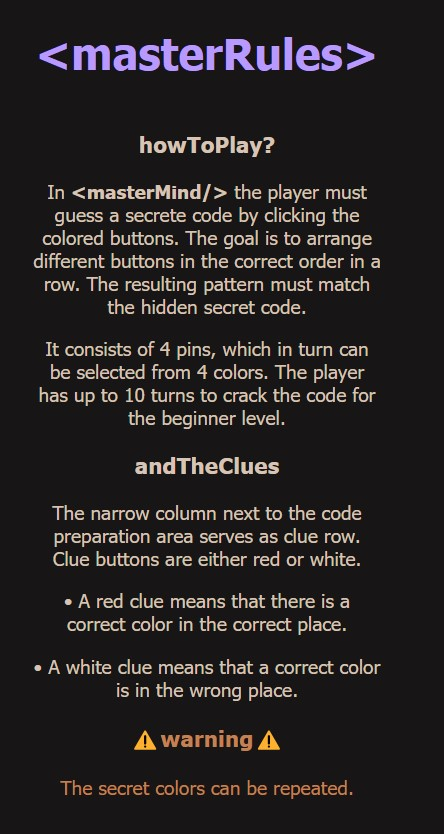
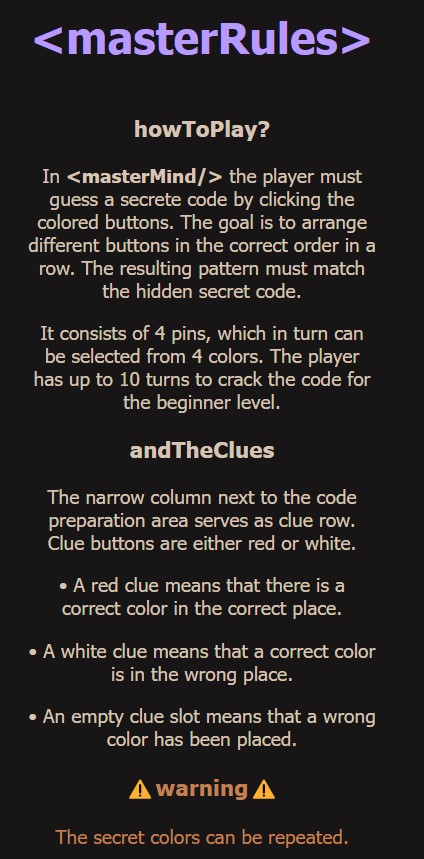
añado la opción pista vacia en la comparación, igualmente la añado en instrucciones

Changed region(s): [[0.0613, 0.1247, 0.8892, 0.9976], [0.0613, 0.0, 0.8892, 0.0935]]

diff --git a/js/game.js b/js/game.js
@@ -135,23 +135,32 @@ console.log('this is the secret code ', secretCode);
 // COMPARING ADDED COLORS WITH THE SECRET CODE AND CHECKING RED AND WHITE CLUES
 if (col1ToHex === secretCode[0]) {
   dot1.style.backgroundColor = "red";
-}else{
+}else if (secretCode.includes(col1ToHex)){
   dot1.style.backgroundColor = "white";
+}else{
+  dot1.style.backgroundColor = "";
 }
+
 if (col2ToHex === secretCode[1]) {
   dot2.style.backgroundColor = "red";
-}else{
+}else if (secretCode.includes(col2ToHex)){
   dot2.style.backgroundColor = "white";
+}else{
+  dot2.style.backgroundColor = "";
 }
 if (col3ToHex === secretCode[2]) {
   dot3.style.backgroundColor = "red";
-}else{
+}else if (secretCode.includes(col3ToHex)){
   dot3.style.backgroundColor = "white";
+}else{
+  dot3.style.backgroundColor = "";
 }
 if (col4ToHex === secretCode[3]) {
   dot4.style.backgroundColor = "red";
-}else{
+}else if (secretCode.includes(col4ToHex)){
   dot4.style.backgroundColor = "white";
+}else{
+  dot4.style.backgroundColor = "";
 }
 
 // SETING WINNER CONDITION

diff --git a/pages/about.html b/pages/about.html
@@ -37,7 +37,8 @@
               </p>
               <p>
                 • A white clue means that a correct color is in the wrong place.
-              </p></div>
+              </p>
+            <p>• An empty clue slot means that a wrong color has been placed.</p></div>
               <div class="warning"><h3>⚠warning⚠</h3>
               <p>The secret colors can be repeated.</p></div>
           
